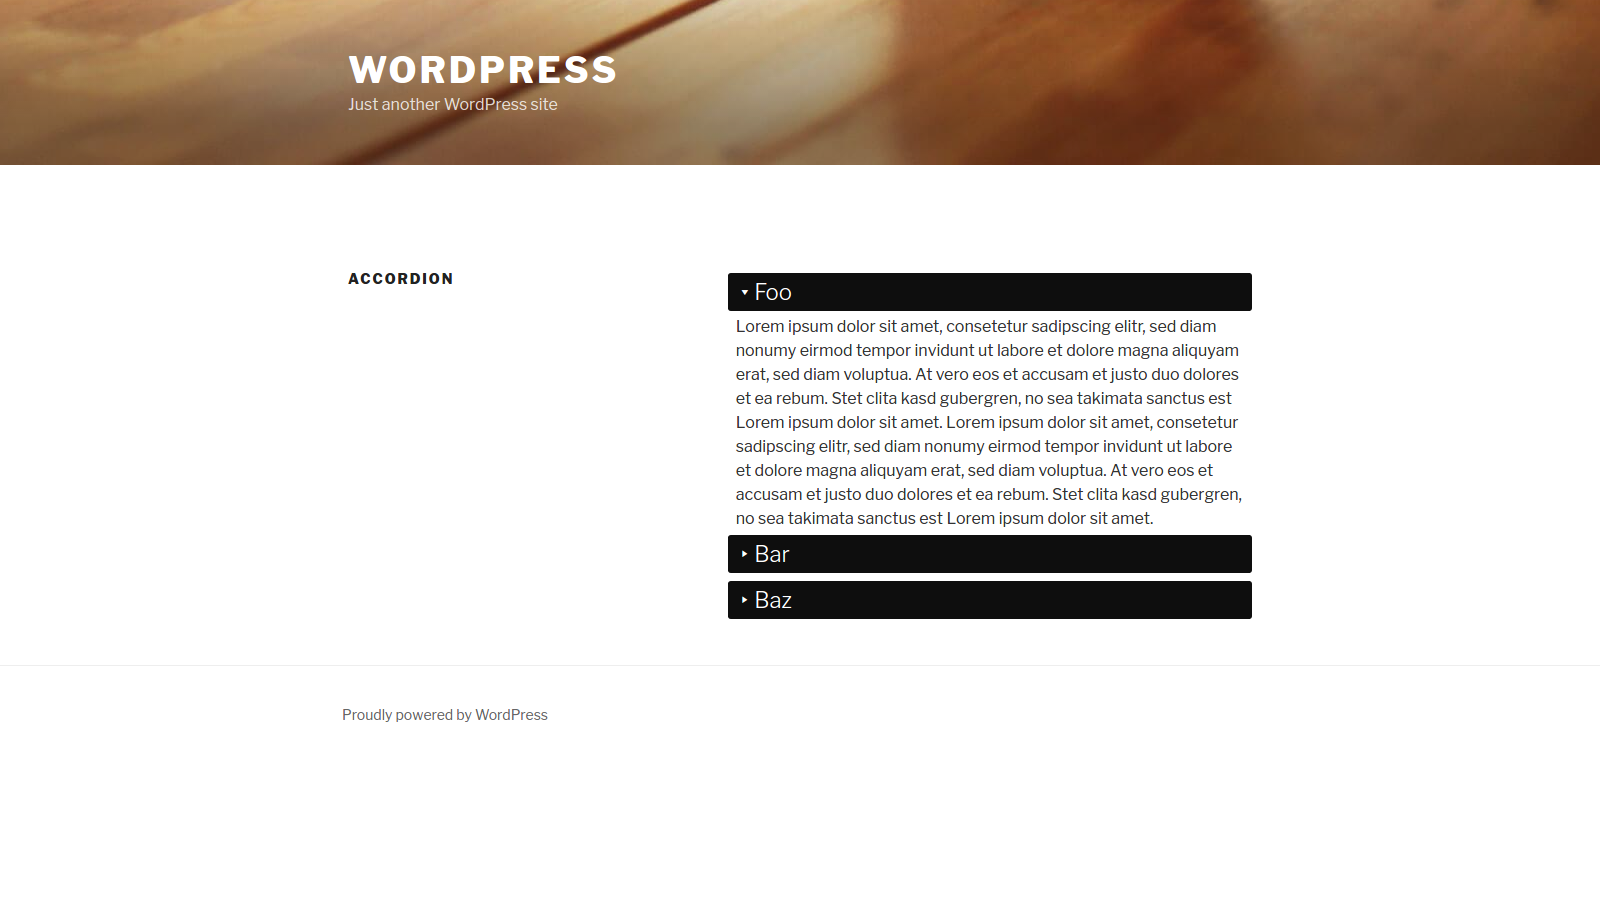
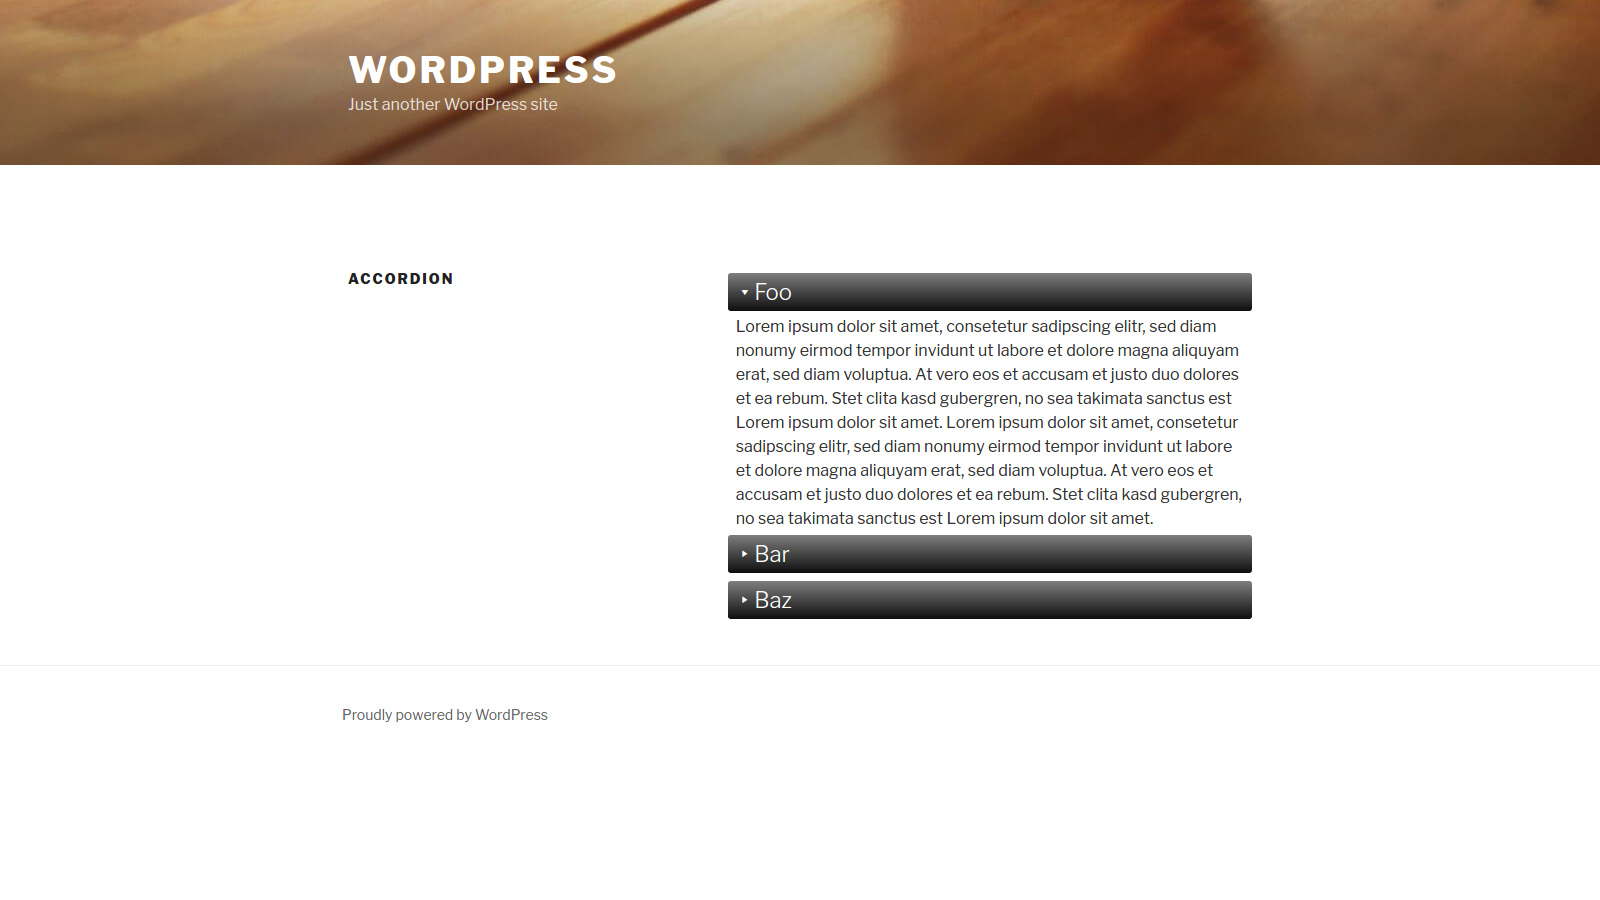
update screenshot

Changed region(s): [[0.4375, 0.5911, 0.7812, 0.6844], [0.4375, 0.28, 0.7812, 0.3422]]

diff --git a/wordpress/trunk/public/css/accordion.min.css b/wordpress/trunk/public/css/accordion.min.css
@@ -1,1 +1,1 @@
-.accordion>h2,.accordion>h3,.accordion>h4,.accordion>h5,.accordion>h6,.accordion>strong{background:#7d7e7d;background:-moz-linear-gradient(top,#7d7e7d 0,#0e0e0e 100%);background:-webkit-linear-gradient(top,#7d7e7d 0,#0e0e0e 100%);background:linear-gradient(to bottom,#7d7e7d 0,#0e0e0e 100%);filter:progid:DXImageTransform.Microsoft.gradient(startColorstr='#7D7E7D',endColorstr='#0E0E0E',GradientType=0);border-radius:3px;color:#fff;cursor:pointer;display:block;margin:4px 0 0 0 !important;max-width:100%;padding:4px 8px !important}.accordion .arrow-icons{font-family:dashicons;font-size:75%;font-style:normal;font-weight:400;margin-right:2px}.accordion>div{display:block;height:0;margin:4px 0 0 0;max-width:100%;padding:0 8px;overflow:hidden}html.no-js .accordion>div{height:auto}
+.accordion>h2,.accordion>h3,.accordion>h4,.accordion>h5,.accordion>h6,.accordion>strong{background:#0e0e0e;background:-moz-linear-gradient(top,#7d7e7d 0,#0e0e0e 100%);background:-webkit-linear-gradient(top,#7d7e7d 0,#0e0e0e 100%);background:linear-gradient(to bottom,#7d7e7d 0,#0e0e0e 100%);filter:progid:DXImageTransform.Microsoft.gradient(startColorstr='#7D7E7D',endColorstr='#0E0E0E',GradientType=0);border-radius:3px;color:#fff;cursor:pointer;display:block;margin:4px 0 0 0 !important;max-width:100%;padding:4px 8px !important}.accordion .arrow-icons{font-family:dashicons;font-size:75%;font-style:normal;font-weight:400;margin-right:2px}.accordion>div{display:block;height:0;margin:4px 0 0 0;max-width:100%;padding:0 8px;overflow:hidden}html.no-js .accordion>div{height:auto}
